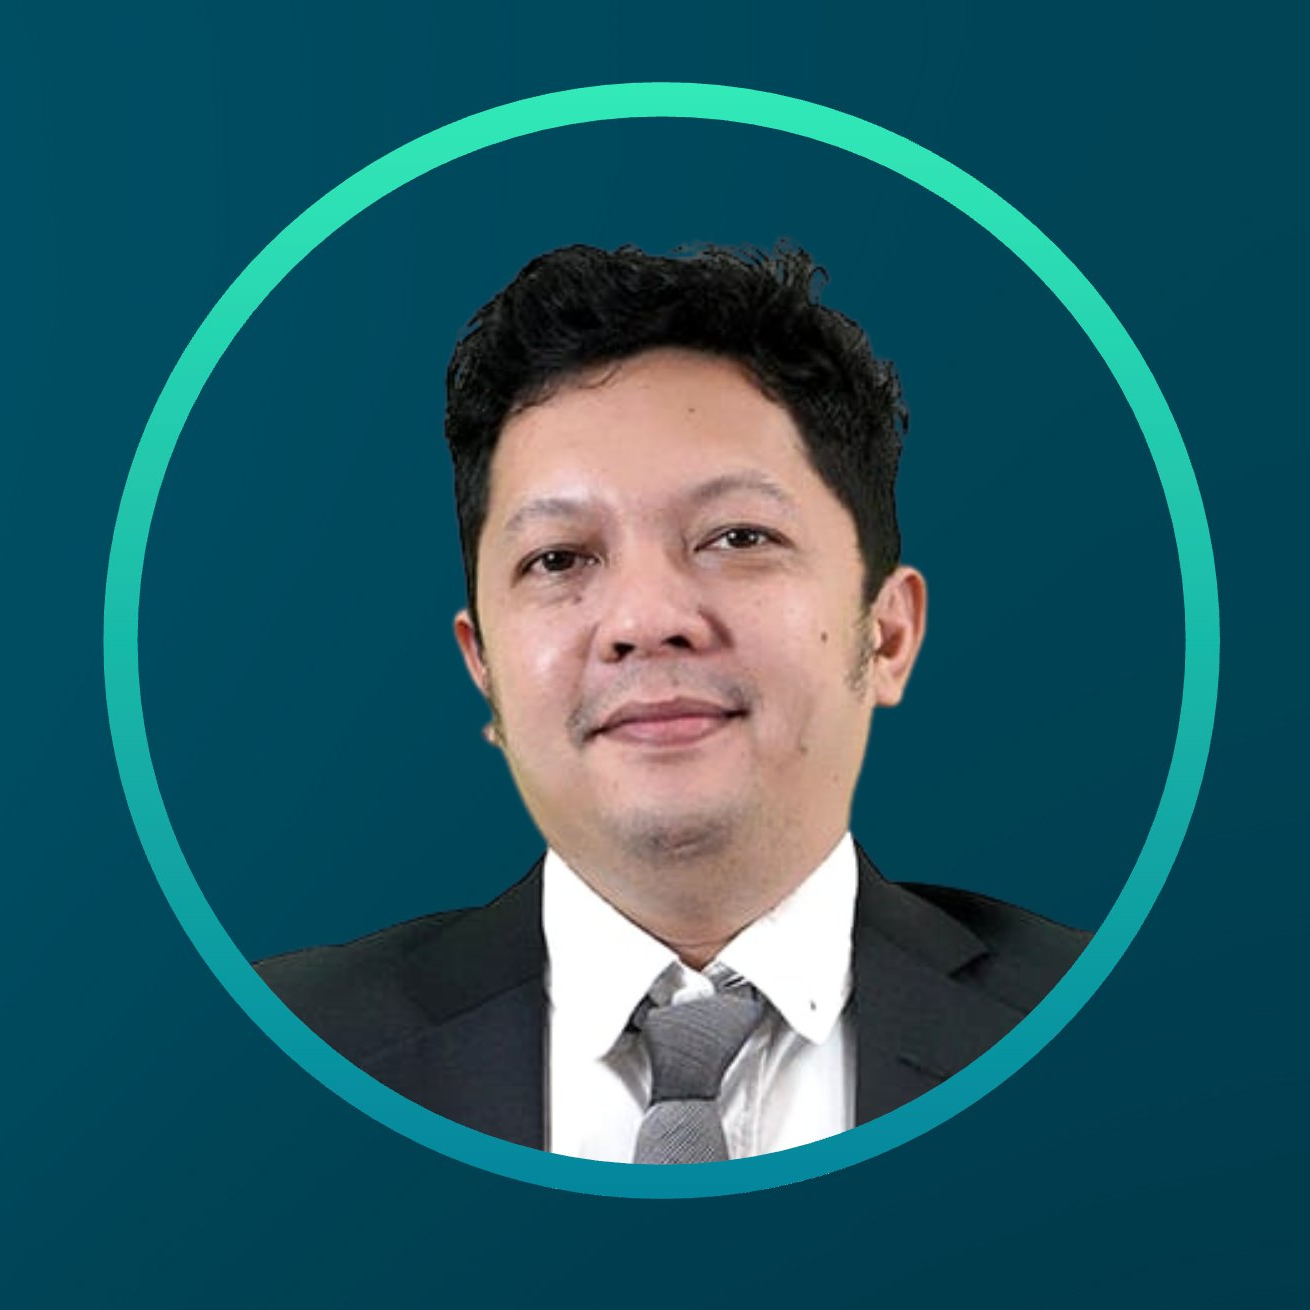
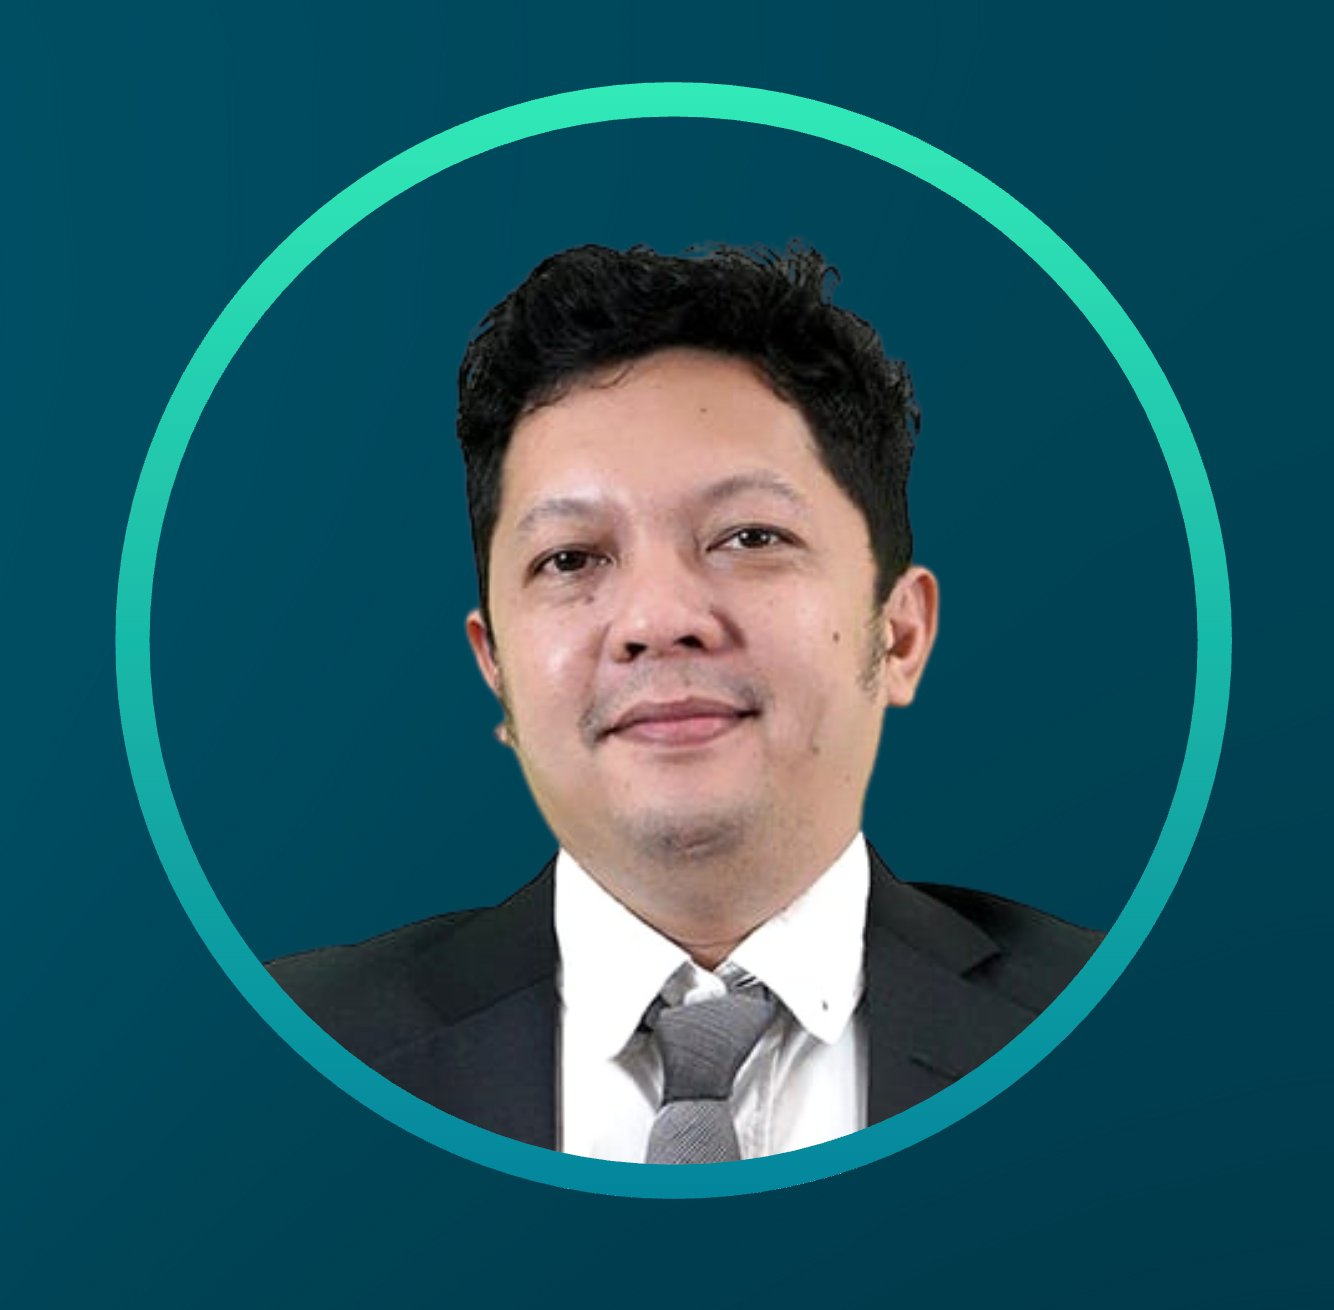
1

diff --git a/src/pages/Products.tsx b/src/pages/Products.tsx
@@ -194,7 +194,7 @@ export default function Products() {
                     style={{ background: selectedMentor === m.id ? `rgba(${rgb(m.color)},0.12)` : "rgba(255,255,255,0.07)", border: `1.5px solid ${selectedMentor === m.id ? m.color : "rgba(255,255,255,0.12)"}`, borderRadius: 16, padding: "18px 16px", cursor: "pointer", textAlign: "left", transition: "all 0.22s", position: "relative", overflow: "hidden" }}>
                     {selectedMentor === m.id && <div className="card-accent-top" style={{ background: `linear-gradient(90deg, ${m.color} 0%, transparent 100%)` }} />}
                     <div style={{ display: "flex", alignItems: "center", gap: 12, marginBottom: 8 }}>
-                      <img src={`/${m.name}.png`} alt={m.name} style={{ width: 64, height: 64, borderRadius: "50%", objectFit: "cover", flexShrink: 0, filter: `drop-shadow(0 0 6px rgba(${rgb(m.color)},0.45))` }} />
+                      <img src={`/${m.name}.png`} alt={m.name} style={{ width: 64, height: 64, borderRadius: "50%", objectFit: "cover", objectPosition: "center 15%", flexShrink: 0, filter: `drop-shadow(0 0 6px rgba(${rgb(m.color)},0.45))` }} />
                       <div style={{ flex: 1, minWidth: 0 }}>
                         <div style={{ fontFamily: "var(--font-display)", fontSize: "15px", fontWeight: 700, color: "#fff" }}>{m.name}</div>
                         <div style={{ fontSize: "11px", color: m.color, fontWeight: 600, marginTop: 1 }}>{m.specialty}</div>
@@ -219,7 +219,7 @@ export default function Products() {
 
                     {/* Header */}
                     <div style={{ display: "flex", alignItems: "center", gap: 14, marginBottom: 16 }}>
-                      <img src={`/${selected.name}.png`} alt={selected.name} style={{ width: 96, height: 96, borderRadius: "50%", objectFit: "cover", flexShrink: 0, filter: `drop-shadow(0 0 10px rgba(${rgb(selected.color)},0.5))` }} />
+                      <img src={`/${selected.name}.png`} alt={selected.name} style={{ width: 96, height: 96, borderRadius: "50%", objectFit: "cover", objectPosition: "center 15%", flexShrink: 0, filter: `drop-shadow(0 0 10px rgba(${rgb(selected.color)},0.5))` }} />
                       <div>
                         <h3 style={{ fontFamily: "var(--font-display)", fontSize: "clamp(18px,4vw,22px)", fontWeight: 800, marginBottom: 2 }}>Mentoring dengan {selected.name}</h3>
                         <span style={{ fontSize: "13px", color: selected.color, fontWeight: 600 }}>{selected.role}</span>

diff --git a/src/pages/Mentors.tsx b/src/pages/Mentors.tsx
@@ -60,7 +60,7 @@ export default function Mentors() {
                     <img
                       src={`/${mentor.name}.png`}
                       alt={mentor.name}
-                      style={{ width: 110, height: 110, borderRadius: "50%", objectFit: "cover", display: "block", filter: `drop-shadow(0 0 10px rgba(${rgb(mentor.color)},0.5))` }}
+                      style={{ width: 110, height: 110, borderRadius: "50%", objectFit: "cover", objectPosition: "center 15%", display: "block", filter: `drop-shadow(0 0 10px rgba(${rgb(mentor.color)},0.5))` }}
                     />
                     <div style={{ position: "absolute", bottom: 2, right: 2, width: 14, height: 14, borderRadius: "50%", background: "#22c55e", border: "2px solid rgba(10,20,45,0.8)" }} />
                   </div>

diff --git a/src/pages/Home.tsx b/src/pages/Home.tsx
@@ -277,7 +277,7 @@ export default function Home() {
                   <img
                     src={`/${m.name}.png`}
                     alt={m.name}
-                    style={{ width: 120, height: 120, borderRadius: "50%", objectFit: "cover", marginBottom: 16, display: "block", filter: `drop-shadow(0 0 8px rgba(${rgb(m.color)},0.5))` }}
+                    style={{ width: 120, height: 120, borderRadius: "50%", objectFit: "cover", objectPosition: "center 15%", marginBottom: 16, display: "block", filter: `drop-shadow(0 0 8px rgba(${rgb(m.color)},0.5))` }}
                   />
 
                   <div style={{ fontFamily: "var(--font-display)", fontSize: "18px", fontWeight: 700, marginBottom: 6 }}>{m.name}</div>
